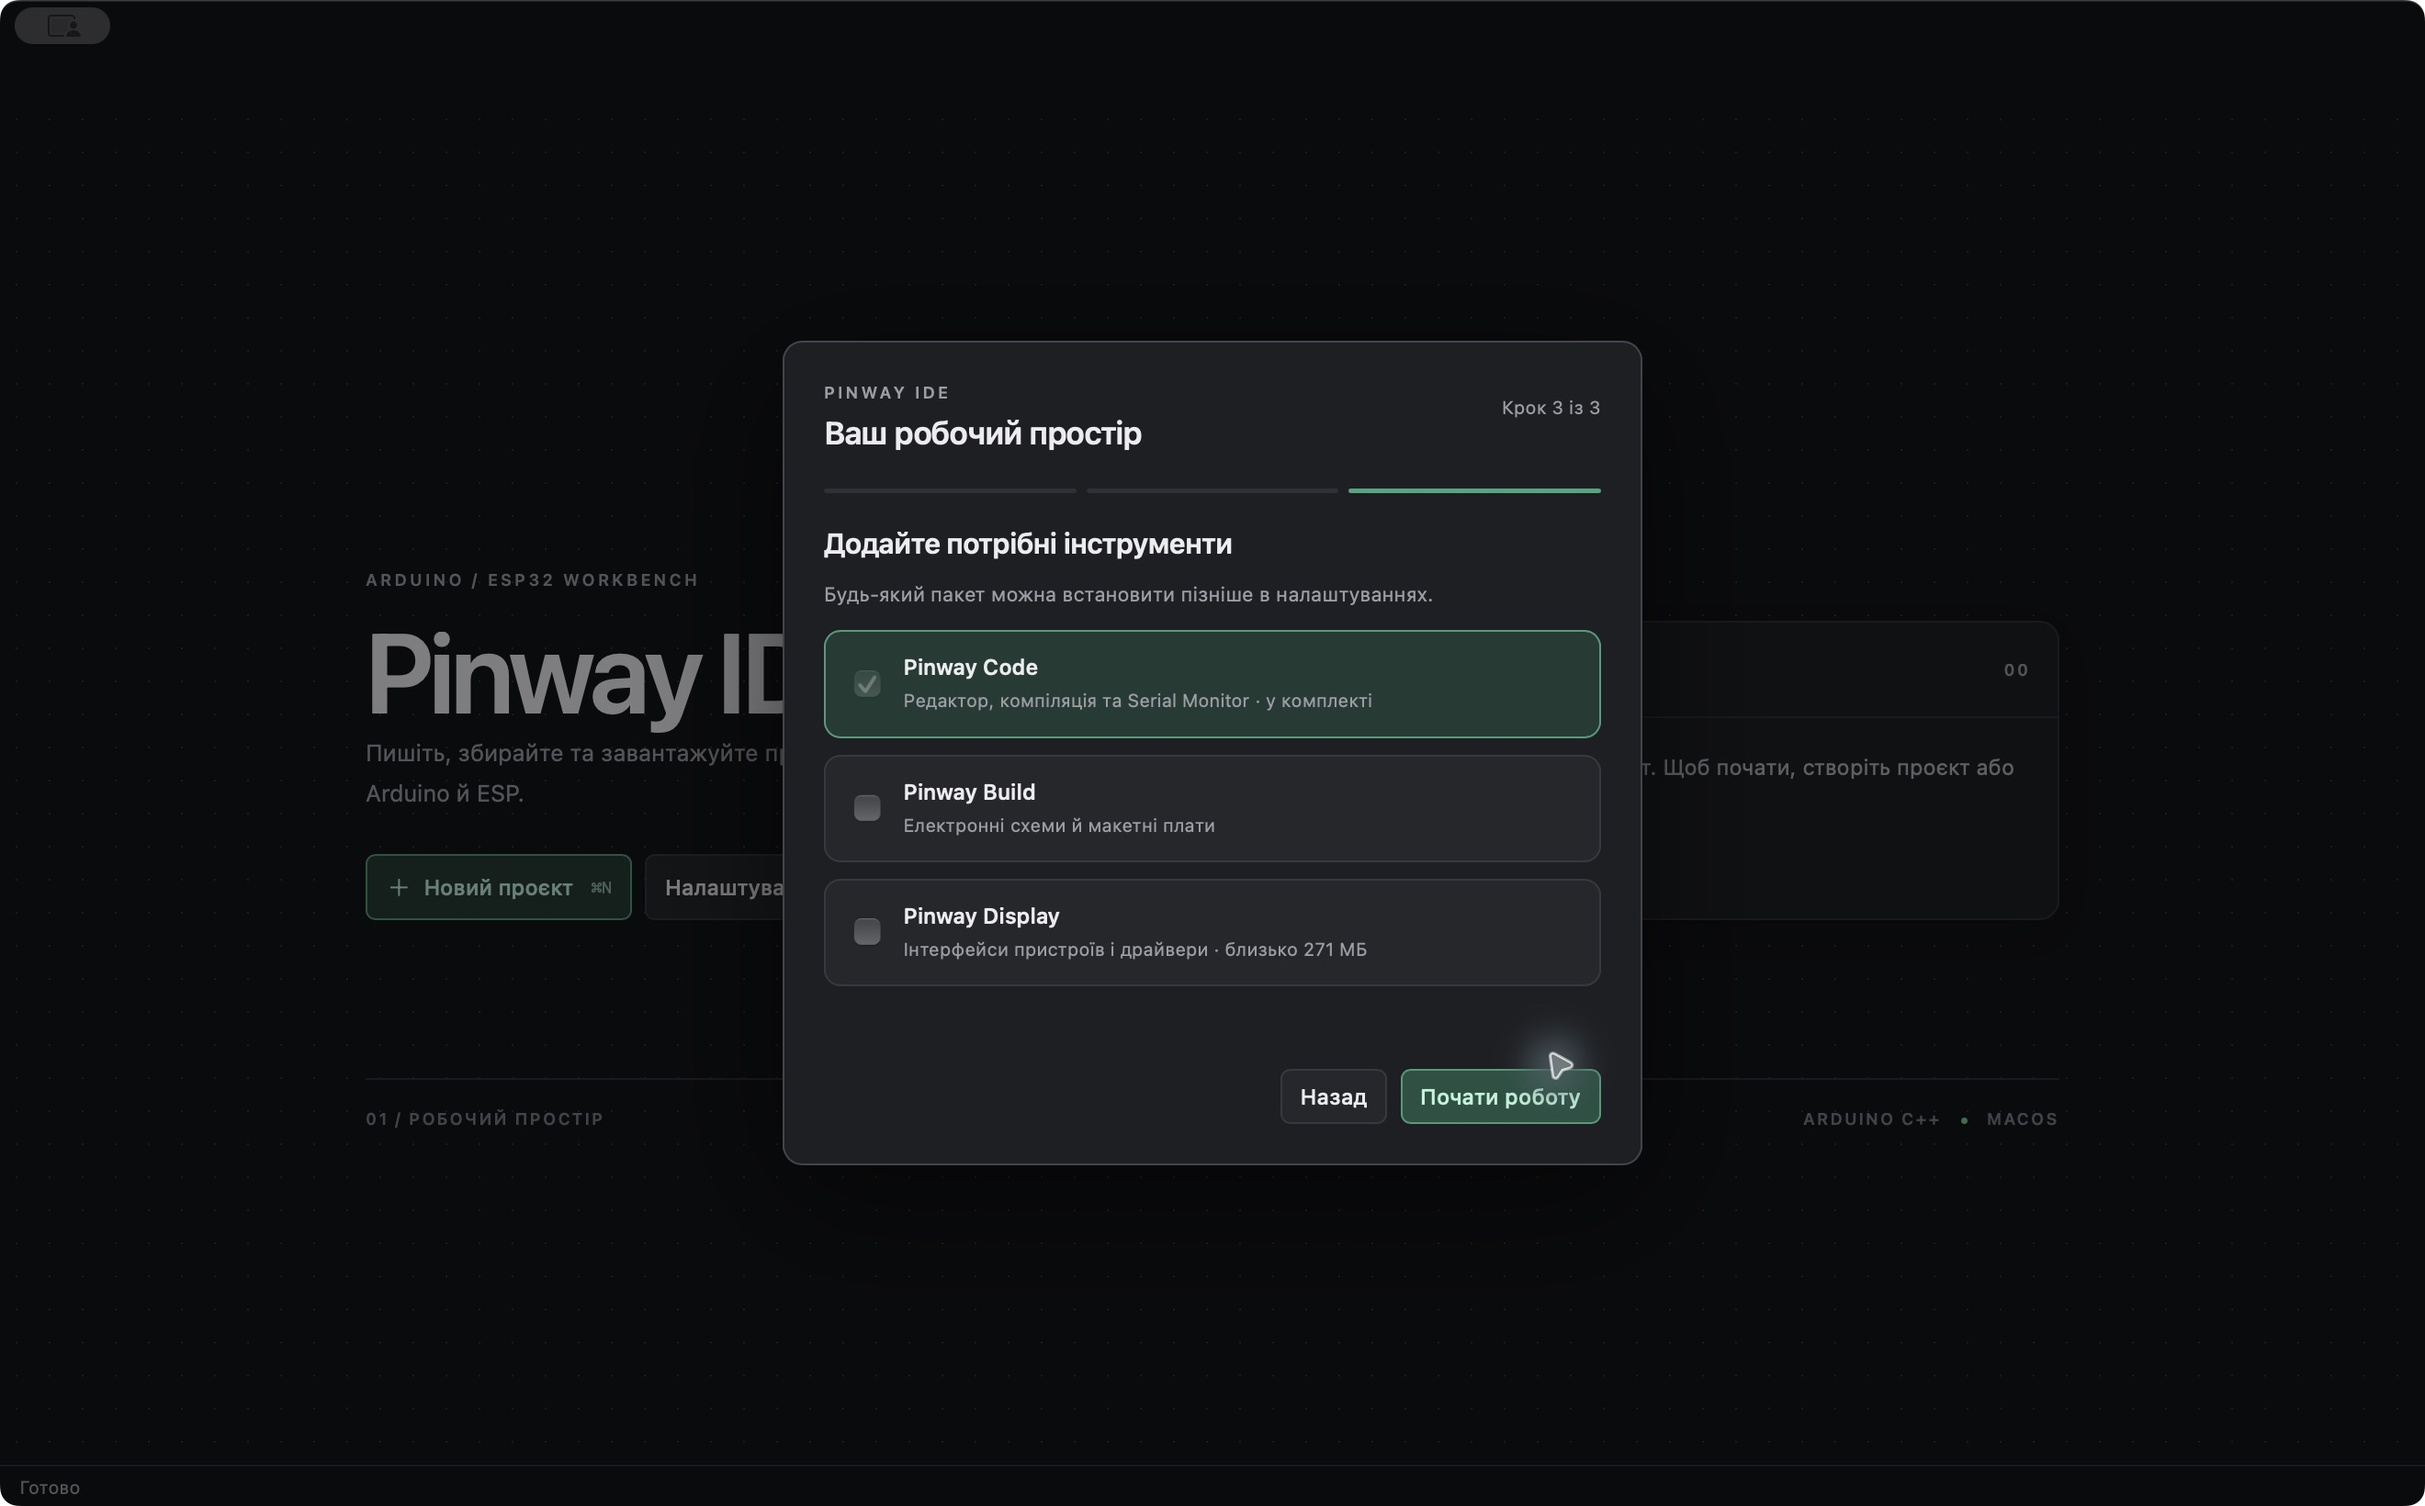
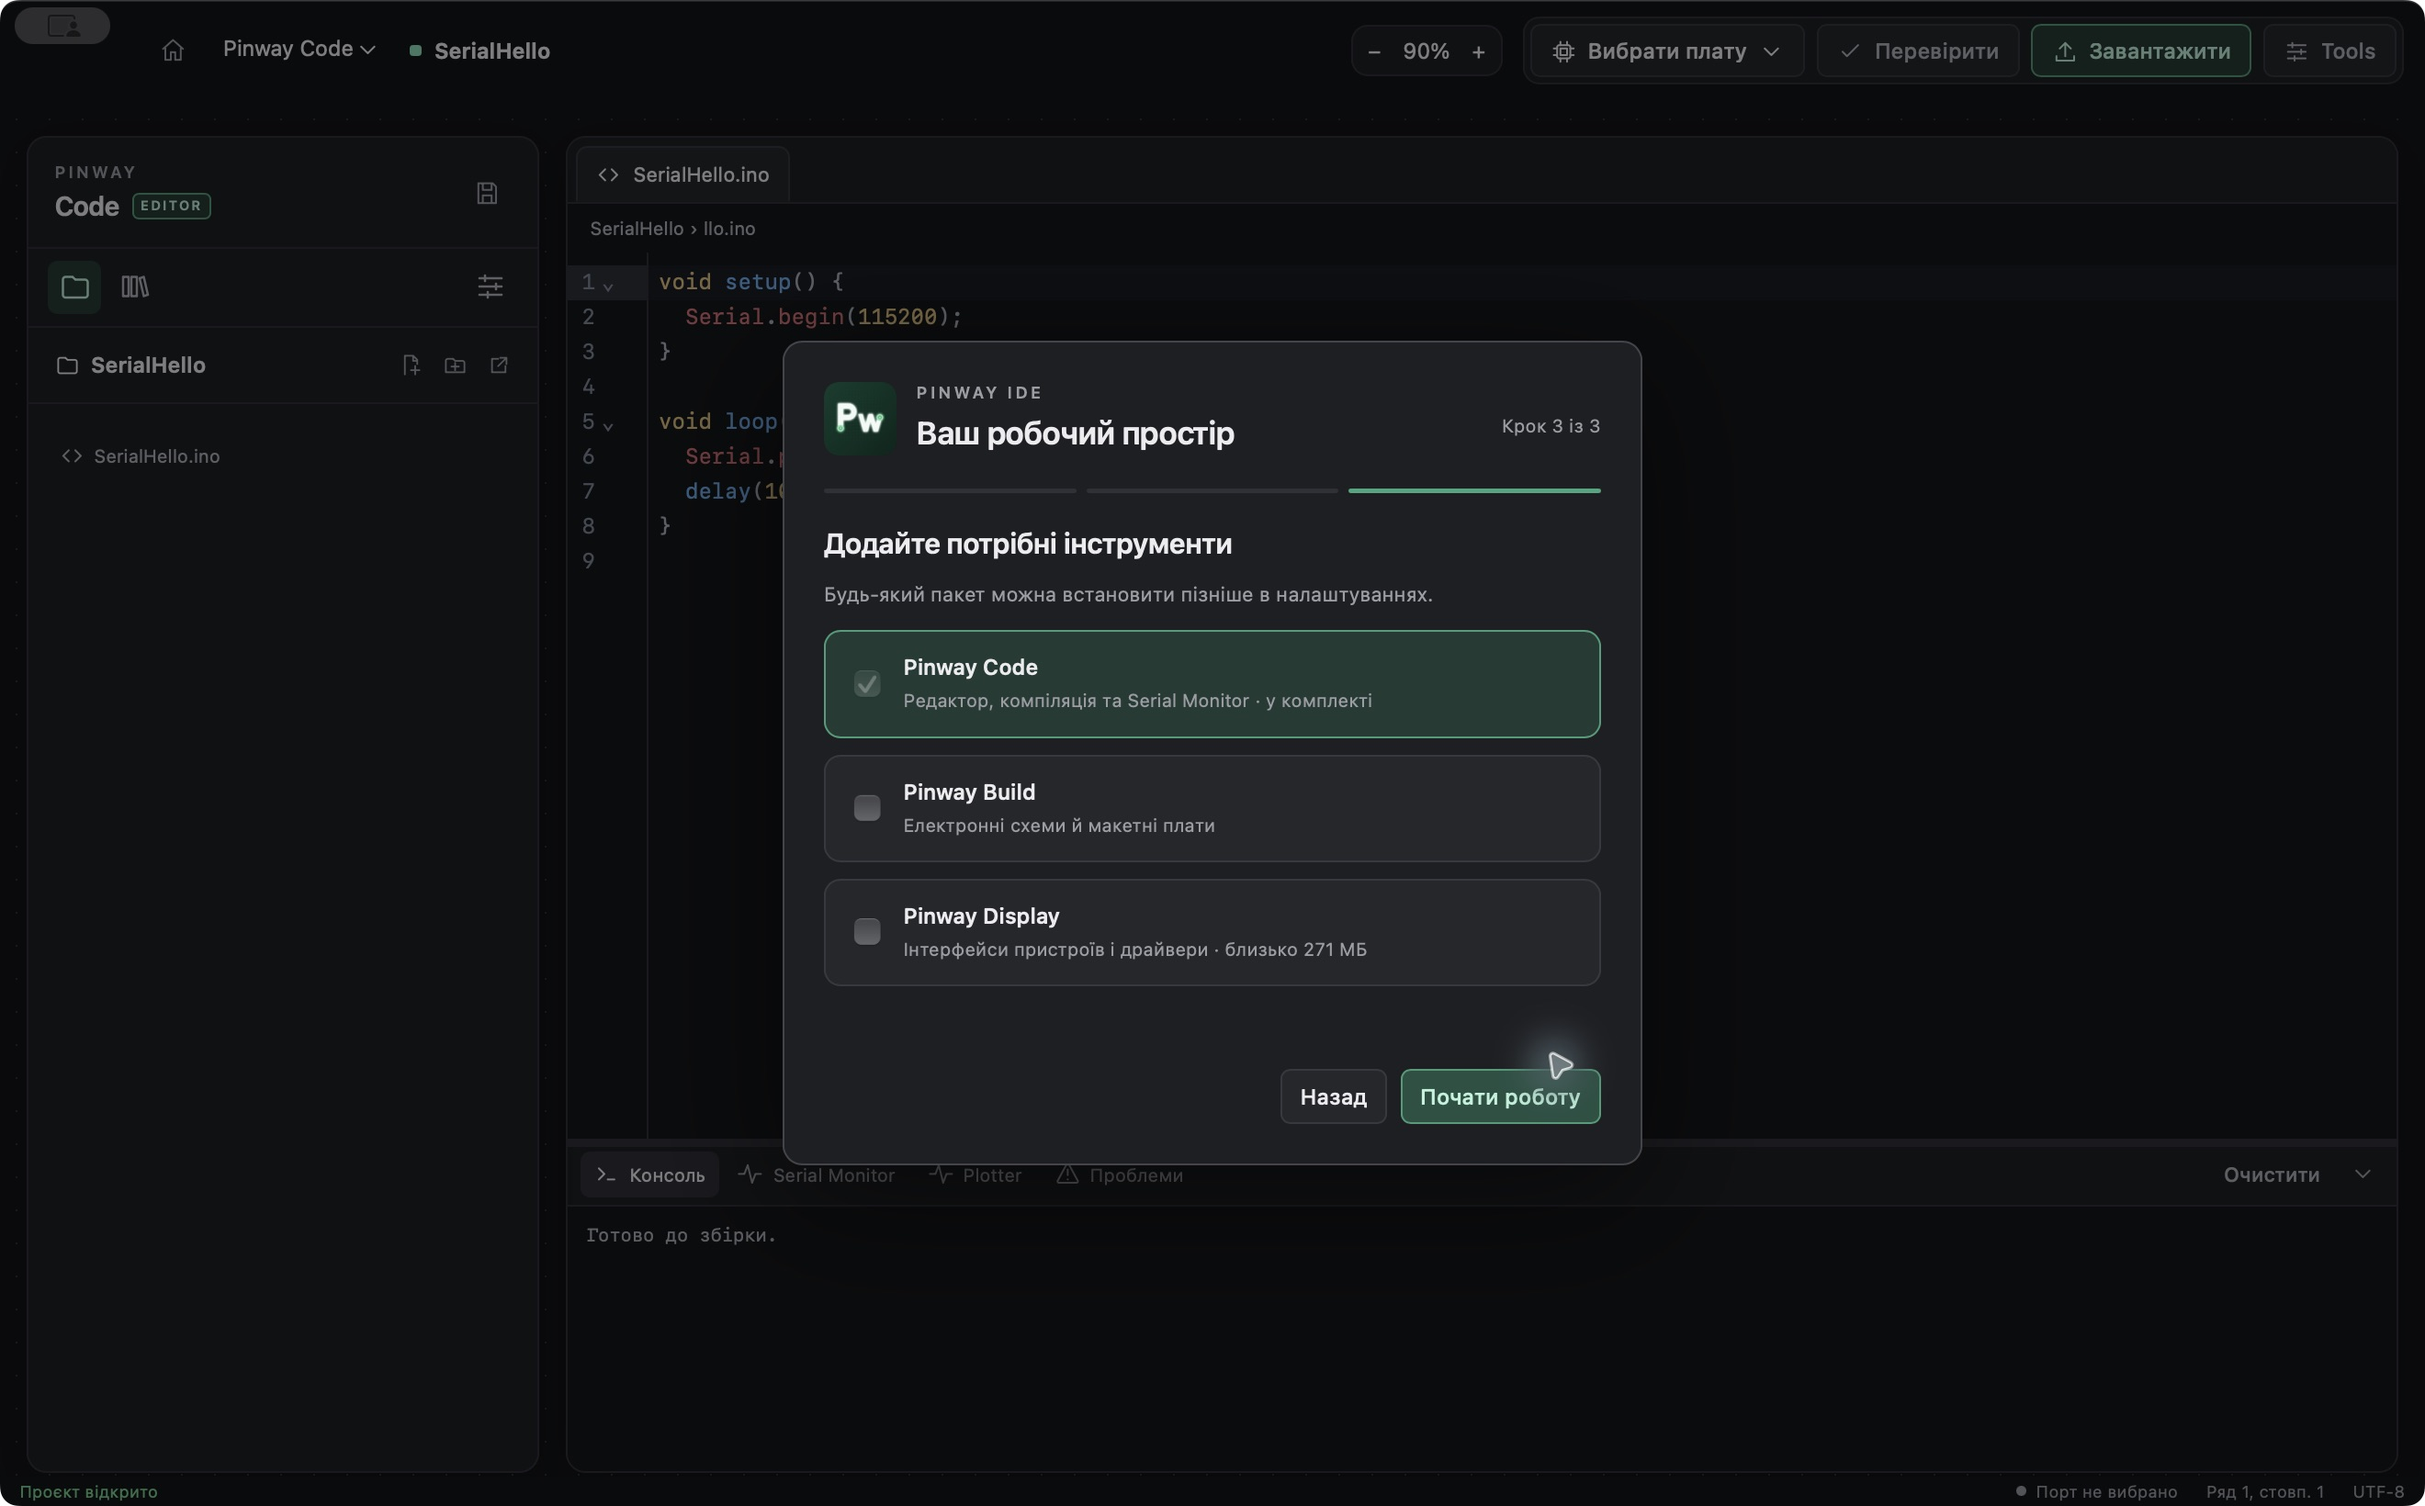
Prepare 0.3.1 release with compact update controls and native preferences

diff --git a/src/studio.css b/src/studio.css
@@ -365,3 +365,9 @@ input:not([type=checkbox]):not([type=color]),select {min-height:30px}
 #setup-dialog .dialog-head>div {flex:1;min-width:0}
 .setup-logo {width:44px;height:44px;object-fit:contain;flex:none}
 @media(max-width:640px) {.brand-logo {width:48px;height:48px}.hero-title {gap:10px}.hero-title h1 {font-size:32px}}
+
+@media(max-width:690px) {
+  .chrome {gap:6px;padding-inline-end:8px}
+  .chrome>.update-badge {font-size:0;width:26px;min-width:26px;padding:0}
+  .chrome>.update-badge::after {content:'↑';font-size:16px}
+}

diff --git a/src/ui.js b/src/ui.js
@@ -1329,6 +1329,11 @@ workspaceSwitch.onkeydown = e => {
   items[index].focus();
 };
 async function shortcut(action) {
+  if (action === 'settings' || action === 'updates') {
+    $('settings-view').click();
+    if (action === 'updates') $('update-check').click();
+    return;
+  }
   if (display.shortcut(action)) return;
   if (await designer.shortcut(action)) return;
   if (action === 'save') await designer.flushProject();

diff --git a/src-tauri/src/main.rs b/src-tauri/src/main.rs
@@ -675,6 +675,9 @@ fn menu(app: &AppHandle) -> tauri::Result<tauri::menu::Menu<tauri::Wry>> {
             .build(app)
     };
     let application = SubmenuBuilder::new(app, "Pinway IDE")
+        .item(&item("settings", "Налаштування…", "CmdOrCtrl+,")?)
+        .item(&MenuItemBuilder::with_id("updates", "Перевірити оновлення…").build(app)?)
+        .separator()
         .hide()
         .hide_others()
         .show_all()

diff --git a/README.md b/README.md
@@ -3,7 +3,7 @@
 # Pinway IDE
 
 [![Build and test](https://github.com/Zen7q/Pinway-IDE/actions/workflows/build.yml/badge.svg)](https://github.com/Zen7q/Pinway-IDE/actions/workflows/build.yml)
-[![Version](https://img.shields.io/badge/version-0.3.0-75dfbc)](https://github.com/Zen7q/Pinway-IDE/releases)
+[![Version](https://img.shields.io/badge/version-0.3.1-75dfbc)](https://github.com/Zen7q/Pinway-IDE/releases)
 [![License](https://img.shields.io/badge/license-source--available-75dfbc)](LICENSE)
 [![Downloads](https://img.shields.io/github/downloads/Zen7q/Pinway-IDE/total)](https://github.com/Zen7q/Pinway-IDE/releases)
 
